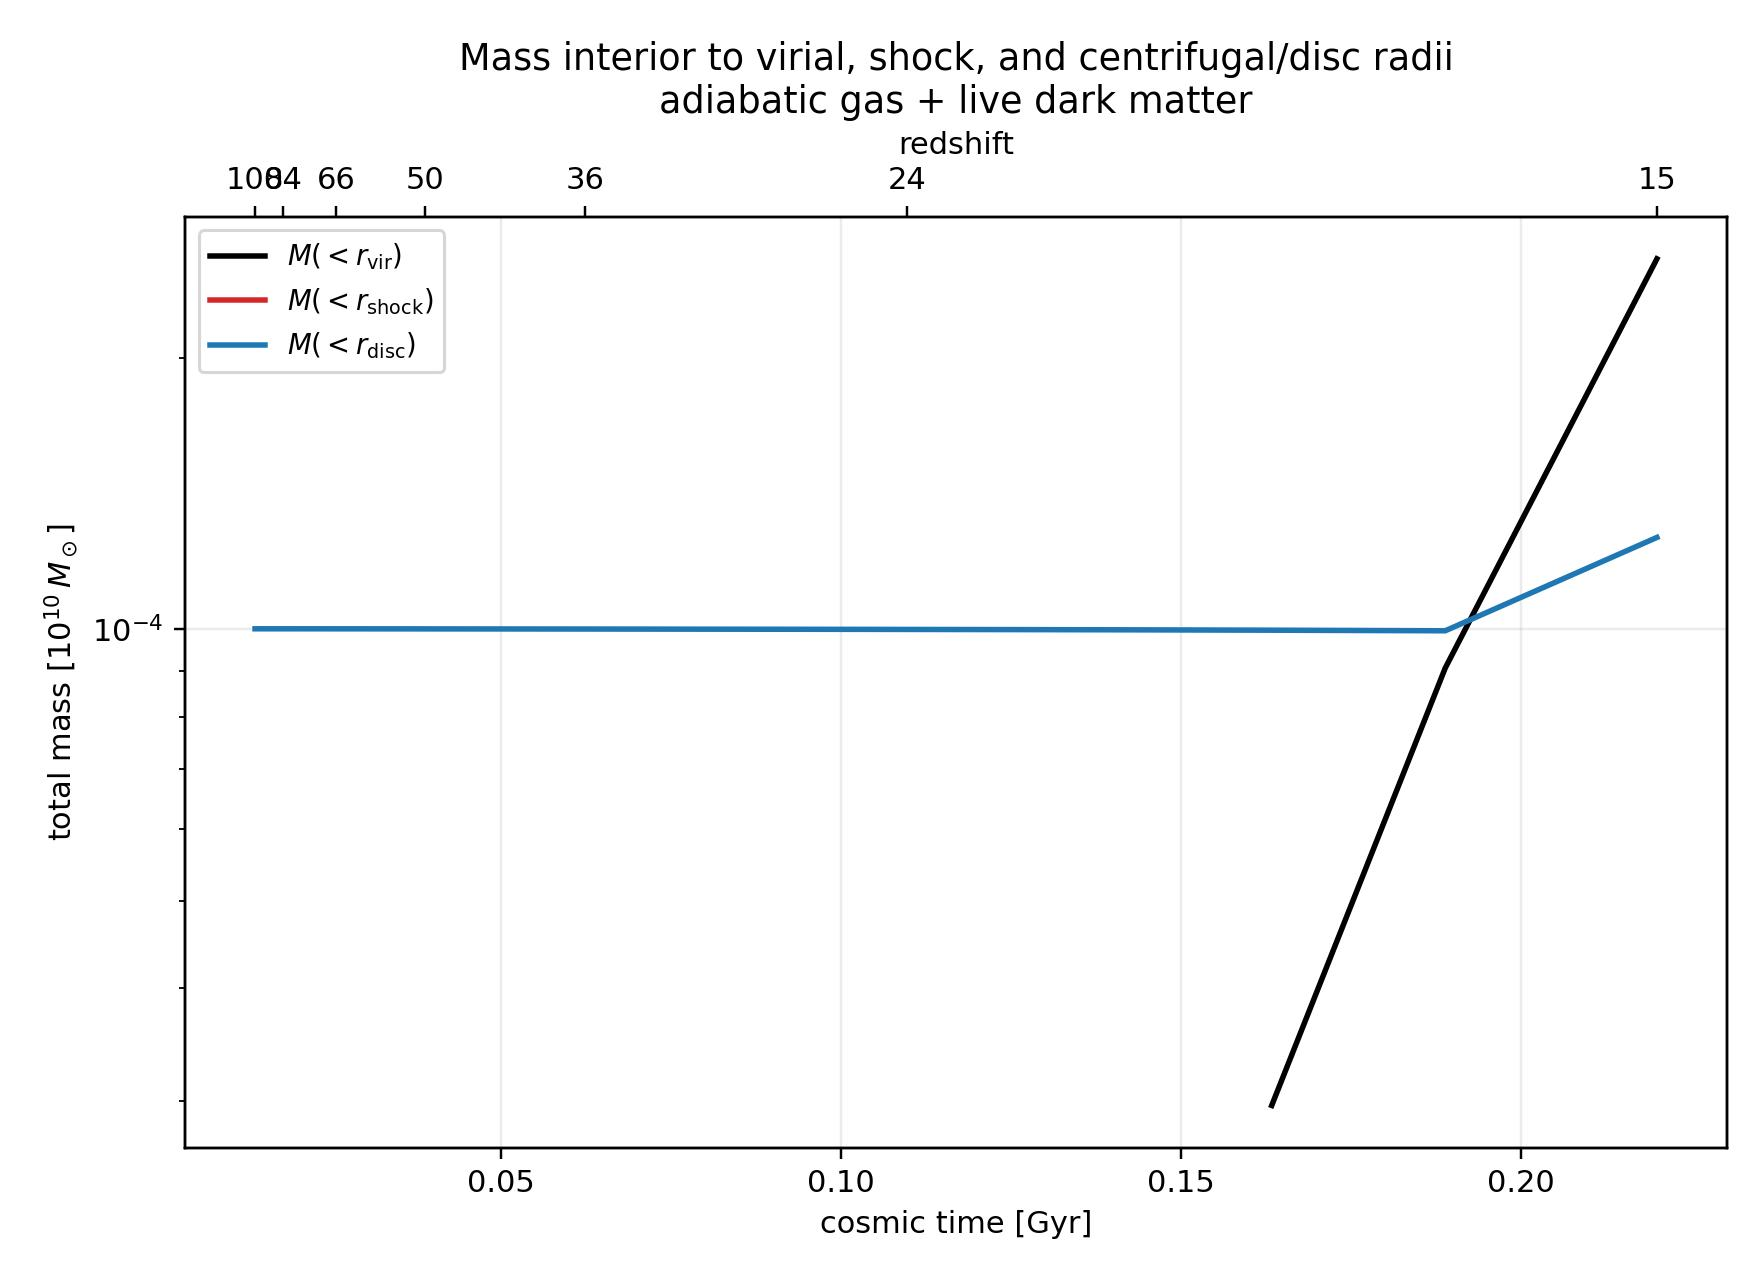
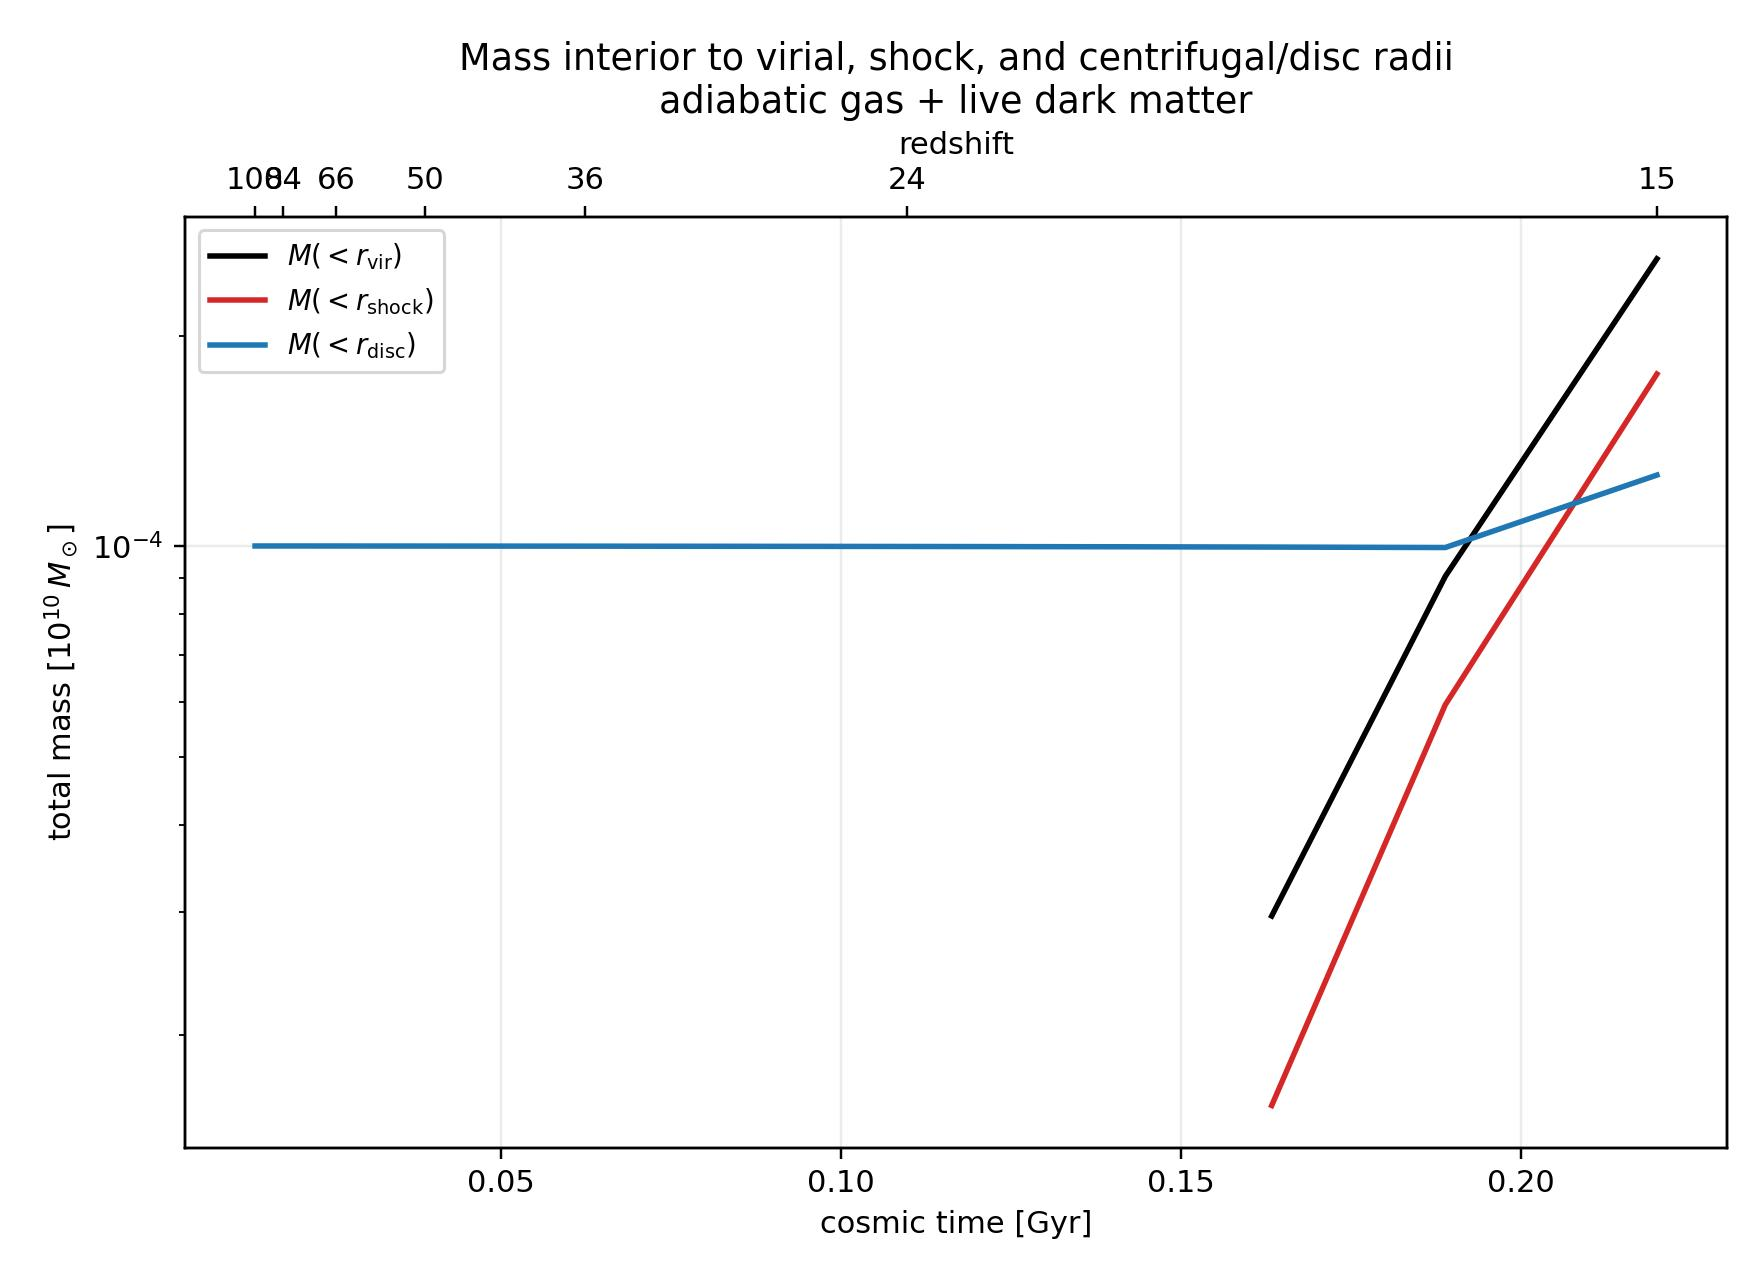
use more inner radius. finding that 10^6 Msun halo has small shock radius (like half of virial radius). 10^13 Msun halo has shock radius around virial radius

Changed region(s): [[0.1562, 0.2139, 0.9375, 0.6724], [0.7188, 0.6418, 0.7812, 0.7641], [0.7188, 0.7641, 0.75, 0.8558]]

diff --git a/example/CosmologicalVirialShock1D/cosmological_adiabatic_gas_correlation.py b/example/CosmologicalVirialShock1D/cosmological_adiabatic_gas_correlation.py
@@ -24,6 +24,7 @@ sys.path.insert(0, str(PROJECT_ROOT))
 sys.path.insert(0, str(EXAMPLE_ROOT))
 
 import virial_shock_tools as et
+from tools.lcdm_correlation import load_lcdm_correlation_table
 
 import radhydropy.io as rio
 from example.example_utils import load_nested_example_config
@@ -40,7 +41,7 @@ def load_correlation_table(config_filename, config):
     filename = Path(config["example"]["linear_correlation_table_filename"])
     if not filename.is_absolute():
         filename = Path(config_filename).resolve().parent / filename
-    return et.load_lcdm_correlation_table(filename)
+    return load_lcdm_correlation_table(filename)
 
 
 def _snapshot(sim, dark_matter, time_cosmic_code, config):
